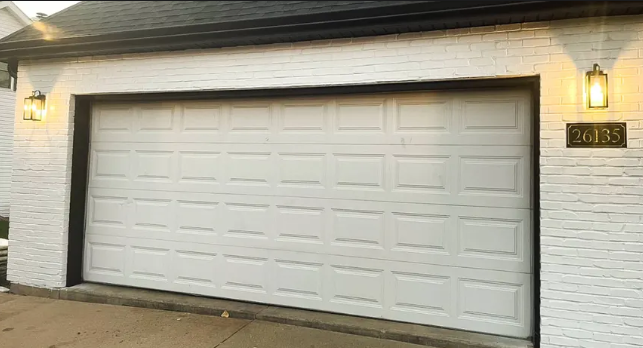
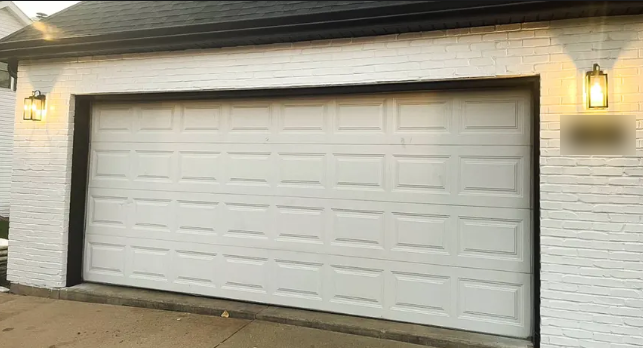
feat(garage-doors): add /garage-doors ad landing page
- Hero with click-to-call + inline quote form (service preselected)
- Repair / opener / installation service cards, before & after photos,
  common problems, how it works, FAQ, service area
- QuoteForm gets optional defaultService prop
- Blurred client house number in garage-door-2/3 photos

Claude-Session: https://claude.ai/code/session_01Qj1v9xDKk1ywWQrEUQp1uF

Changed region(s): [[0.8709, 0.3161, 0.9953, 0.4598]]

diff --git a/src/pages/GarageDoors.tsx b/src/pages/GarageDoors.tsx
@@ -1,0 +1,302 @@
+import { Link } from "react-router-dom";
+import { Helmet } from "react-helmet-async";
+import { Award, Check, Clock, MapPin, Phone, Wrench, Zap, DoorClosed } from "lucide-react";
+import Navbar from "@/components/Navbar";
+import Footer from "@/components/Footer";
+import QuoteForm from "@/components/QuoteForm";
+import { Button } from "@/components/ui/button";
+import { SERVICE_AREA_TEXT } from "@/data/serviceArea";
+import garageBefore from "@/assets/garage-door-2.png";
+import garageAfter from "@/assets/garage-door-3.png";
+
+const PHONE_DISPLAY = "945-344-4580";
+const PHONE_HREF = "tel:+19453444580";
+
+const highlights = [
+  { icon: Clock, label: "Same-Day Service" },
+  { icon: Award, label: "Free Quotes" },
+  { icon: MapPin, label: "Based in Forney" },
+];
+
+const services = [
+  {
+    icon: Wrench,
+    title: "Garage Door Repair",
+    desc: "Door stuck, off track, noisy, or won't close? We diagnose the problem and fix it, often the same day you call.",
+  },
+  {
+    icon: Zap,
+    title: "Opener Repair & Replacement",
+    desc: "Opener dead, slow, or unreliable? We repair or replace it and get your door opening smoothly again.",
+  },
+  {
+    icon: DoorClosed,
+    title: "New Garage Door Installation",
+    desc: "Upgrade your curb appeal with a new door, from classic raised panels to modern styles with window inserts.",
+  },
+];
+
+const problems = [
+  "Broken or snapped springs",
+  "Frayed or snapped cables",
+  "Door off track or crooked",
+  "Door won't open or close",
+  "Opener not responding",
+  "Loud, grinding, or jerky door",
+  "Dented or damaged panels",
+  "Old door that needs replacing",
+];
+
+const steps = [
+  { title: "Call or request a quote", desc: "Tell us what's going on with your door. Calls get the fastest response." },
+  { title: "Get a free quote", desc: "We look at the problem and give you an honest price before any work starts." },
+  { title: "Door fixed", desc: "We complete the repair or installation, often the same day." },
+];
+
+const faqs = [
+  {
+    q: "Do you offer same-day garage door repair?",
+    a: "Yes. Same-day service is available. Call 945-344-4580 for the fastest response.",
+  },
+  {
+    q: "Are quotes free?",
+    a: "Yes. Every quote is free, and you get the price before any work starts.",
+  },
+  {
+    q: "What areas do you serve?",
+    a: `We're based in Forney and serve ${SERVICE_AREA_TEXT}.`,
+  },
+];
+
+const GarageDoors = () => {
+  return (
+    <>
+      <Helmet>
+        <title>Garage Door Repair & Installation in Forney & DFW | Cyril Handyman & Door LLC</title>
+        <meta
+          name="description"
+          content="Same-day garage door repair, opener replacement, and new garage door installation in Forney, Rockwall, Mesquite, Garland, Dallas, and DFW. Free quotes. Call 945-344-4580."
+        />
+        <link rel="canonical" href="https://crazydoorhandyman.com/garage-doors" />
+      </Helmet>
+      <Navbar />
+
+      {/* Hero */}
+      <section className="relative overflow-hidden bg-secondary text-secondary-foreground">
+        <div className="pointer-events-none absolute -bottom-20 -left-20 h-[400px] w-[400px] rounded-full bg-primary opacity-[0.07] blur-[120px]" />
+        <div className="relative container mx-auto grid gap-12 px-4 py-16 lg:grid-cols-2 lg:items-center lg:gap-16 lg:px-8 lg:py-24">
+          <div className="flex flex-col gap-6">
+            <p className="text-xs font-bold uppercase tracking-[0.15em] text-primary">
+              Garage Doors Are Our Specialty
+            </p>
+            <h1 className="font-heading text-4xl font-bold uppercase leading-tight tracking-tight lg:text-5xl">
+              Garage Door Repair &amp; Installation in Forney &amp; DFW
+            </h1>
+            <p className="max-w-md text-base leading-relaxed text-secondary-foreground/80">
+              Broken spring, dead opener, or ready for a new door? Same-day service is available, and
+              every quote is free.
+            </p>
+            <div className="flex flex-col gap-3 sm:flex-row">
+              <Button
+                asChild
+                size="lg"
+                className="bg-primary font-heading text-sm uppercase tracking-widest text-primary-foreground hover:bg-primary/90"
+              >
+                <a href={PHONE_HREF}>
+                  <Phone size={18} aria-hidden="true" />
+                  Call {PHONE_DISPLAY}
+                </a>
+              </Button>
+              <Button
+                asChild
+                size="lg"
+                variant="outline"
+                className="border-secondary-foreground/30 bg-transparent font-heading text-sm uppercase tracking-widest text-secondary-foreground hover:bg-secondary-foreground/10 hover:text-secondary-foreground"
+              >
+                <a href="#quote">Get a Free Quote</a>
+              </Button>
+            </div>
+            <ul className="mt-2 flex flex-wrap gap-x-6 gap-y-3">
+              {highlights.map((h) => (
+                <li key={h.label} className="flex items-center gap-2">
+                  <h.icon className="text-primary" size={18} aria-hidden="true" />
+                  <span className="font-heading text-xs font-semibold uppercase tracking-widest">
+                    {h.label}
+                  </span>
+                </li>
+              ))}
+            </ul>
+          </div>
+
+          <div
+            id="quote"
+            className="scroll-mt-24 rounded-lg border border-secondary-foreground/10 bg-secondary-foreground/5 p-6 lg:p-8"
+          >
+            <h2 className="mb-6 font-heading text-xl font-semibold uppercase tracking-wide">
+              Request a Garage Door Quote
+            </h2>
+            <QuoteForm darkMode defaultService="Garage Door Services" />
+          </div>
+        </div>
+      </section>
+
+      {/* Services */}
+      <section className="bg-background">
+        <div className="container mx-auto px-4 py-16 lg:px-8 lg:py-24">
+          <h2 className="mb-2 text-center font-heading text-3xl font-bold uppercase tracking-tight lg:text-4xl">
+            Garage Door Services
+          </h2>
+          <p className="mb-12 text-center text-muted-foreground">
+            Repair, openers, and new installations, handled by a local crew.
+          </p>
+          <div className="grid gap-6 md:grid-cols-3">
+            {services.map((s) => (
+              <div
+                key={s.title}
+                className="flex flex-col gap-4 rounded-lg border border-border bg-card p-8"
+              >
+                <s.icon className="text-primary" size={36} aria-hidden="true" />
+                <h3 className="font-heading text-lg font-semibold uppercase tracking-wide">{s.title}</h3>
+                <p className="text-sm leading-relaxed text-muted-foreground">{s.desc}</p>
+              </div>
+            ))}
+          </div>
+        </div>
+      </section>
+
+      {/* Before / After */}
+      <section className="bg-muted">
+        <div className="container mx-auto px-4 py-16 lg:px-8 lg:py-24">
+          <h2 className="mb-2 text-center font-heading text-3xl font-bold uppercase tracking-tight lg:text-4xl">
+            Before &amp; After
+          </h2>
+          <p className="mb-12 text-center text-muted-foreground">
+            A recent garage door replacement: same house, new door.
+          </p>
+          <div className="grid gap-6 md:grid-cols-2">
+            {[
+              { src: garageBefore, label: "Before", alt: "Old white raised-panel garage door before replacement" },
+              { src: garageAfter, label: "After", alt: "New dark brown garage door with window inserts after installation" },
+            ].map((img) => (
+              <figure key={img.label} className="overflow-hidden rounded-lg border border-border bg-card">
+                <div className="aspect-[16/9] overflow-hidden">
+                  <img src={img.src} alt={img.alt} className="h-full w-full object-cover" loading="lazy" />
+                </div>
+                <figcaption className="px-5 py-3 font-heading text-sm font-semibold uppercase tracking-widest">
+                  {img.label}
+                </figcaption>
+              </figure>
+            ))}
+          </div>
+        </div>
+      </section>
+
+      {/* Common problems */}
+      <section className="bg-background">
+        <div className="container mx-auto grid gap-10 px-4 py-16 lg:grid-cols-2 lg:items-center lg:gap-16 lg:px-8 lg:py-24">
+          <div>
+            <h2 className="font-heading text-2xl font-bold uppercase tracking-tight lg:text-3xl">
+              Common Garage Door Problems We Fix
+            </h2>
+            <p className="mt-4 max-w-lg leading-relaxed text-muted-foreground">
+              If your door isn't working right, don't force it. Give us a call and we'll take a look.
+            </p>
+            <Button
+              asChild
+              size="lg"
+              className="mt-8 bg-primary font-heading text-sm uppercase tracking-widest text-primary-foreground hover:bg-primary/90"
+            >
+              <a href={PHONE_HREF}>
+                <Phone size={18} aria-hidden="true" />
+                Call {PHONE_DISPLAY}
+              </a>
+            </Button>
+          </div>
+          <ul className="grid gap-3 rounded-lg border border-border bg-card p-6 sm:grid-cols-2 lg:p-8">
+            {problems.map((p) => (
+              <li key={p} className="flex items-start gap-3">
+                <Check className="mt-0.5 shrink-0 text-primary" size={18} aria-hidden="true" />
+                <span className="text-sm leading-relaxed text-muted-foreground">{p}</span>
+              </li>
+            ))}
+          </ul>
+        </div>
+      </section>
+
+      {/* How it works */}
+      <section className="bg-muted">
+        <div className="container mx-auto px-4 py-16 lg:px-8 lg:py-24">
+          <h2 className="mb-12 text-center font-heading text-3xl font-bold uppercase tracking-tight lg:text-4xl">
+            How It Works
+          </h2>
+          <ol className="grid gap-6 md:grid-cols-3">
+            {steps.map((step, i) => (
+              <li key={step.title} className="rounded-lg border border-border bg-card p-8">
+                <span className="font-heading text-3xl font-bold text-primary">{i + 1}</span>
+                <h3 className="mt-3 font-heading text-lg font-semibold uppercase tracking-wide">{step.title}</h3>
+                <p className="mt-2 text-sm leading-relaxed text-muted-foreground">{step.desc}</p>
+              </li>
+            ))}
+          </ol>
+        </div>
+      </section>
+
+      {/* FAQ + service area */}
+      <section className="bg-background">
+        <div className="container mx-auto max-w-3xl px-4 py-16 lg:px-8 lg:py-24">
+          <h2 className="mb-8 text-center font-heading text-3xl font-bold uppercase tracking-tight lg:text-4xl">
+            Questions
+          </h2>
+          <dl className="flex flex-col gap-6">
+            {faqs.map((f) => (
+              <div key={f.q} className="rounded-lg border border-border bg-card p-6">
+                <dt className="font-heading text-base font-semibold uppercase tracking-wide">{f.q}</dt>
+                <dd className="mt-2 text-sm leading-relaxed text-muted-foreground">{f.a}</dd>
+              </div>
+            ))}
+          </dl>
+          <p className="mt-10 text-center text-sm text-muted-foreground">
+            Also need blinds or shades?{" "}
+            <Link to="/blinds" className="font-semibold text-primary hover:underline">
+              See our window blinds
+            </Link>
+            .
+          </p>
+        </div>
+      </section>
+
+      {/* Bottom CTA */}
+      <section className="bg-secondary text-secondary-foreground">
+        <div className="container mx-auto px-4 py-16 text-center lg:px-8 lg:py-20">
+          <h2 className="font-heading text-2xl font-bold uppercase tracking-tight lg:text-3xl">
+            Garage door trouble? We can often fix it today.
+          </h2>
+          <div className="mt-8 flex flex-col items-center justify-center gap-3 sm:flex-row">
+            <Button
+              asChild
+              size="lg"
+              className="bg-primary font-heading text-sm uppercase tracking-widest text-primary-foreground hover:bg-primary/90"
+            >
+              <a href={PHONE_HREF}>
+                <Phone size={18} aria-hidden="true" />
+                Call {PHONE_DISPLAY}
+              </a>
+            </Button>
+            <Button
+              asChild
+              size="lg"
+              variant="outline"
+              className="border-secondary-foreground/30 bg-transparent font-heading text-sm uppercase tracking-widest text-secondary-foreground hover:bg-secondary-foreground/10 hover:text-secondary-foreground"
+            >
+              <a href="#quote">Get a Free Quote</a>
+            </Button>
+          </div>
+        </div>
+      </section>
+
+      <Footer />
+    </>
+  );
+};
+
+export default GarageDoors;

diff --git a/src/components/QuoteForm.tsx b/src/components/QuoteForm.tsx
@@ -26,16 +26,22 @@ const services = [
 interface QuoteFormProps {
   submitLabel?: string;
   darkMode?: boolean;
+  /** Preselects the service dropdown, e.g. on a service-specific landing page. */
+  defaultService?: string;
 }
 
-const QuoteForm = ({ submitLabel = "Request a Quote", darkMode = false }: QuoteFormProps) => {
+const QuoteForm = ({
+  submitLabel = "Request a Quote",
+  darkMode = false,
+  defaultService = "",
+}: QuoteFormProps) => {
   const { toast } = useToast();
   const [loading, setLoading] = useState(false);
   const [form, setForm] = useState({
     name: "",
     phone: "",
     city: "",
-    service: "",
+    service: defaultService,
     message: "",
   });
 
@@ -64,7 +70,7 @@ const QuoteForm = ({ submitLabel = "Request a Quote", darkMode = false }: QuoteF
         title: "Your request has been sent!",
         description: "We'll be in touch soon.",
       });
-      setForm({ name: "", phone: "", city: "", service: "", message: "" });
+      setForm({ name: "", phone: "", city: "", service: defaultService, message: "" });
     } catch {
       toast({
         title: "Something went wrong",

diff --git a/src/App.tsx b/src/App.tsx
@@ -7,6 +7,7 @@ import Index from "./pages/Index";
 import Services from "./pages/Services";
 import Contact from "./pages/Contact";
 import Blinds from "./pages/Blinds";
+import GarageDoors from "./pages/GarageDoors";
 import ZebraBlinds from "./pages/blinds/ZebraBlinds";
 import RollerBlinds from "./pages/blinds/RollerBlinds";
 import BlackoutBlinds from "./pages/blinds/BlackoutBlinds";
@@ -24,6 +25,7 @@ const App = () => (
           <Routes>
             <Route path="/" element={<Index />} />
             <Route path="/services" element={<Services />} />
+            <Route path="/garage-doors" element={<GarageDoors />} />
             <Route path="/blinds" element={<Blinds />} />
             <Route path="/blinds/zebra" element={<ZebraBlinds />} />
             <Route path="/blinds/roller" element={<RollerBlinds />} />
